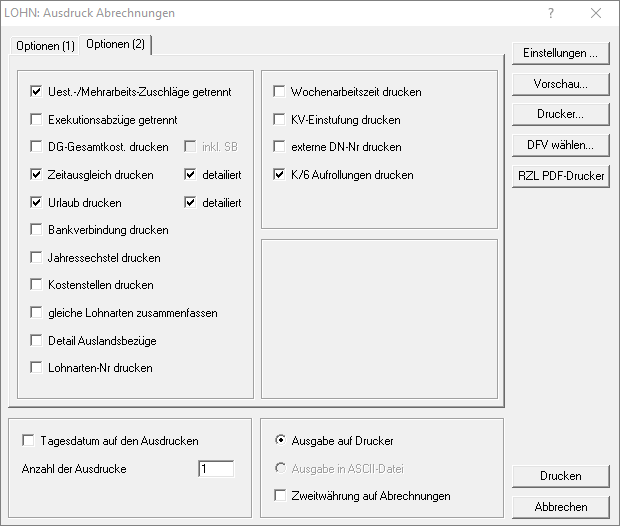
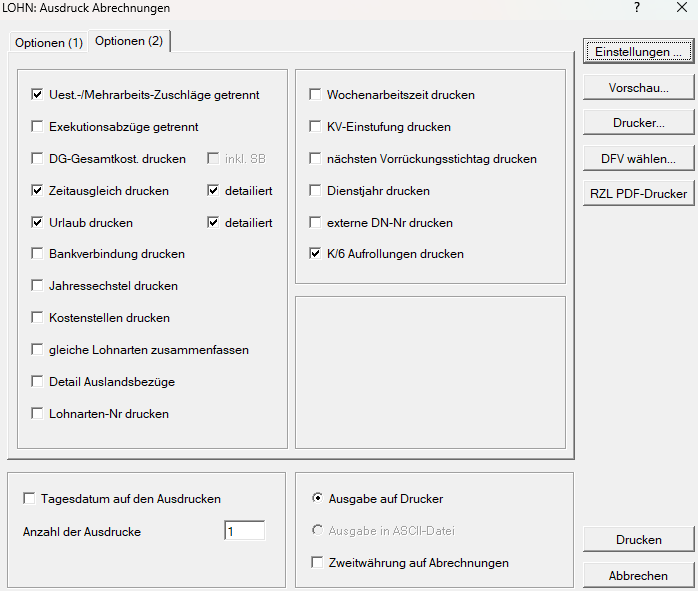
LOHN Aenderungen 2.26.4.0 (#170)
* Ergänzung Fixe Lohnarten um Zeitraum Teilpension

* Anpassung Ausschlussgrund Kontrollsechstel

* Datenexport Buchungsbeleg: Belegnummer kann nun mit Platzhalter befüllt werden

* Ausdruck Abrechnung Optionen 2 um Auswahl Vorrückungsstichtag und Dienstjahr ergänzt

diff --git a/docs/LOHN/Abrechnungsbildschirme/Fixe_Lohnarten.md b/docs/LOHN/Abrechnungsbildschirme/Fixe_Lohnarten.md
@@ -94,7 +94,7 @@ Eingabe des *Sonderzahlungsanspruches*, der für die Berechnung der Abfertigung 
 
 Aufgrund der für die Abfertigung maßgeblichen Daten wird vom Programm automatisch der *Abfertigungsanspruch* berechnet und vorgeschlagen. Dieser kann auch abgeändert werden. Eine solche Änderung ist durch ein Sternchen (*) vor dem Betragsfeld ersichtlich.
 
-## Schlechtwetterentschädigung, unbezahlter Urlaub und Teilentgelt
+## Schlechtwetterentschädigung, unbezahlter Urlaub, Teilentgelt und Teilpension
 
 **Lohnbasis SW-Entschädigung**
 
@@ -135,9 +135,17 @@ LKU (außer in der Steiermark und Kärnten) entfallen für solche Zeiträume. De
 
 Hier sind die Anzahl der Tage und der Betrag des Teilentgeltes einzugeben. Es ist zu beachten, dass hier nur das beitragspflichtige Teilentgelt eingegeben werden darf. Ein nicht beitragspflichtiges Teilentgelt (z. B. beim Lehrling) muss als freie Lohnart definiert werden.
 
+**Teilentgelt Lehrling**
+
+Bei der Beschäftigtengruppe *Lehrling* ist dieses Feld freigeschaltet. Hier kann das Teilentgelt des Lehrlings abgerechnet werden, das SV- und BV-frei ist.
+
 **Teilentgelt Ausland**
 
-Wenn der Bezug von Teilentgelt in eine Periode mit Auslandstätigkeit fällt, können hier die Eintragungen vorgenommen werden. Die Abrechnung in diesen Feldern wird lohnsteuerfrei gerechnet.
+Wenn der Bezug von Teilentgelt in eine Periode mit Auslandstätigkeit fällt, können hier die Eintragungen vorgenommen werden. Die Abrechnung in diesen Feldern wird lohnsteuerfrei gerechnet. Lohnart nur bis 2011 gültig.
+
+**Zeitraum Teilpension**
+
+Damit die Teilpension bei der Kontrollsechstelberechnung als Ausschlussgrund berücksichtigt wird, ist in diesem Feld der Zeitraum der Teilpension einzutragen.
 
 ## BUAK-Direktauzahlung
 

diff --git a/docs/LOHN/Ausdrucke_allgemein/Ausdruck_Abrechnungen.md b/docs/LOHN/Ausdrucke_allgemein/Ausdruck_Abrechnungen.md
@@ -57,7 +57,7 @@ Das Feld *Lohnarten-Nr drucken* zeigt, bei der Verwendung von freien Lohnarten, 
 Die im Abrechnungsbildschirm [*Eintritt*](../Abrechnungsbildschirme/Eintritt.md) hinterlegte Wochenarbeitszeit des Dienstnehmers wird durch Anwahl des Feldes *Wochenarbeitszeit drucken* auf der Abrechnung angezeigt.
 
 Wenn das Modul [*Kollektivverträge*](../Kollektivverträge/Abrechnungsbildschirm_Kollektivvertrag.md) lizensiert ist, werden durch Anwahl des Feldes
-*KV-Einstufung drucken* der zugeordnete Kollektivvertrag, die Tätigkeitsgruppe und der Beginn der Einstufung auf die Abrechnung gedruckt.
+*KV-Einstufung drucken* der zugeordnete Kollektivvertrag, die Tätigkeitsgruppe sowie der Beginn der Einstufung auf die Abrechnung gedruckt. Mit den Auswahlmöglichkeiten *nächsten Vorrückungsstichtag drucken* und *Dienstjahr drucken* können zusätzlich auch das Vorrückungsdatum und das Dienstjahr auf der Abrechnung angedruckt werden.
 
 Wenn abweichende externe Dienstnehmer-Nummern verwendet werden, können diese Nummern durch Aktivierung der Option *externe DN-Nr. drucken* auf der Abrechnung angedruckt werden.
 

diff --git a/docs/LOHN/Datenexport_Buchungsbeleg.md b/docs/LOHN/Datenexport_Buchungsbeleg.md
@@ -27,6 +27,9 @@ Das im Feld *Belegdatum* eingetragene Datum wird in der Finanzbuchhaltung als Bu
 
 In das Eingabefeld *Belegnummer* kann eine Nummer eingetragen werden, die in der Finanzbuchhaltung entsprechend verbucht wird.
 
+!!! info "Tipp"
+    Verwenden Sie im Feld *Belegnummer* die Platzhalter MM, JJ oder JJJJ. Dadurch werden das beim Datenexport gewählte Monat und Jahr automatisch in die Belegnummer übernommen.
+
 Im Feld *Offene Posten-Nummer* können Eintragungen für die Verbuchung der OP-Nummer (Sachkonten) gemacht werden. Es besteht die Möglichkeit, mit sogenannten Platzhaltern zu arbeiten. *0* bedeutet keinen Eintrag. Wenn einzelne Buchungskreise vorhanden sind, werden diese durch das Kürzel *BB* angegeben. *MM* steht für das Buchungsmonat und *JJ* steht für das Buchungsjahr.
 
 In das Feld *Auswahl Export-Datei* sind der Pfad zur Export-Datei und die Bezeichnung der Export-Datei einzutragen oder über die Schaltfläche *Suchen* festzulegen.

diff --git a/docs/LOHN/Abrechnungen_Sonderfälle/Kontrollsechstel_77_Abs._4a_EStG.md b/docs/LOHN/Abrechnungen_Sonderfälle/Kontrollsechstel_77_Abs._4a_EStG.md
@@ -18,7 +18,7 @@
 
 8)  Bezug von Altersteilzeitgeld gemäß § 27 AlVG
 
-9)  Teilpension gemäß § 27a AlVG oder
+9)  Teilpension gemäß § 4a Allgemeines Pensionsgesetz (APG) oder
 
 10) Beendigung des Dienstverhältnisses, wenn im Kalenderjahr kein neues Dienstverhältnis bei demselben Arbeitgeber oder einem mit diesem verbundenen Konzernunternehmen eingegangen wird.
 
